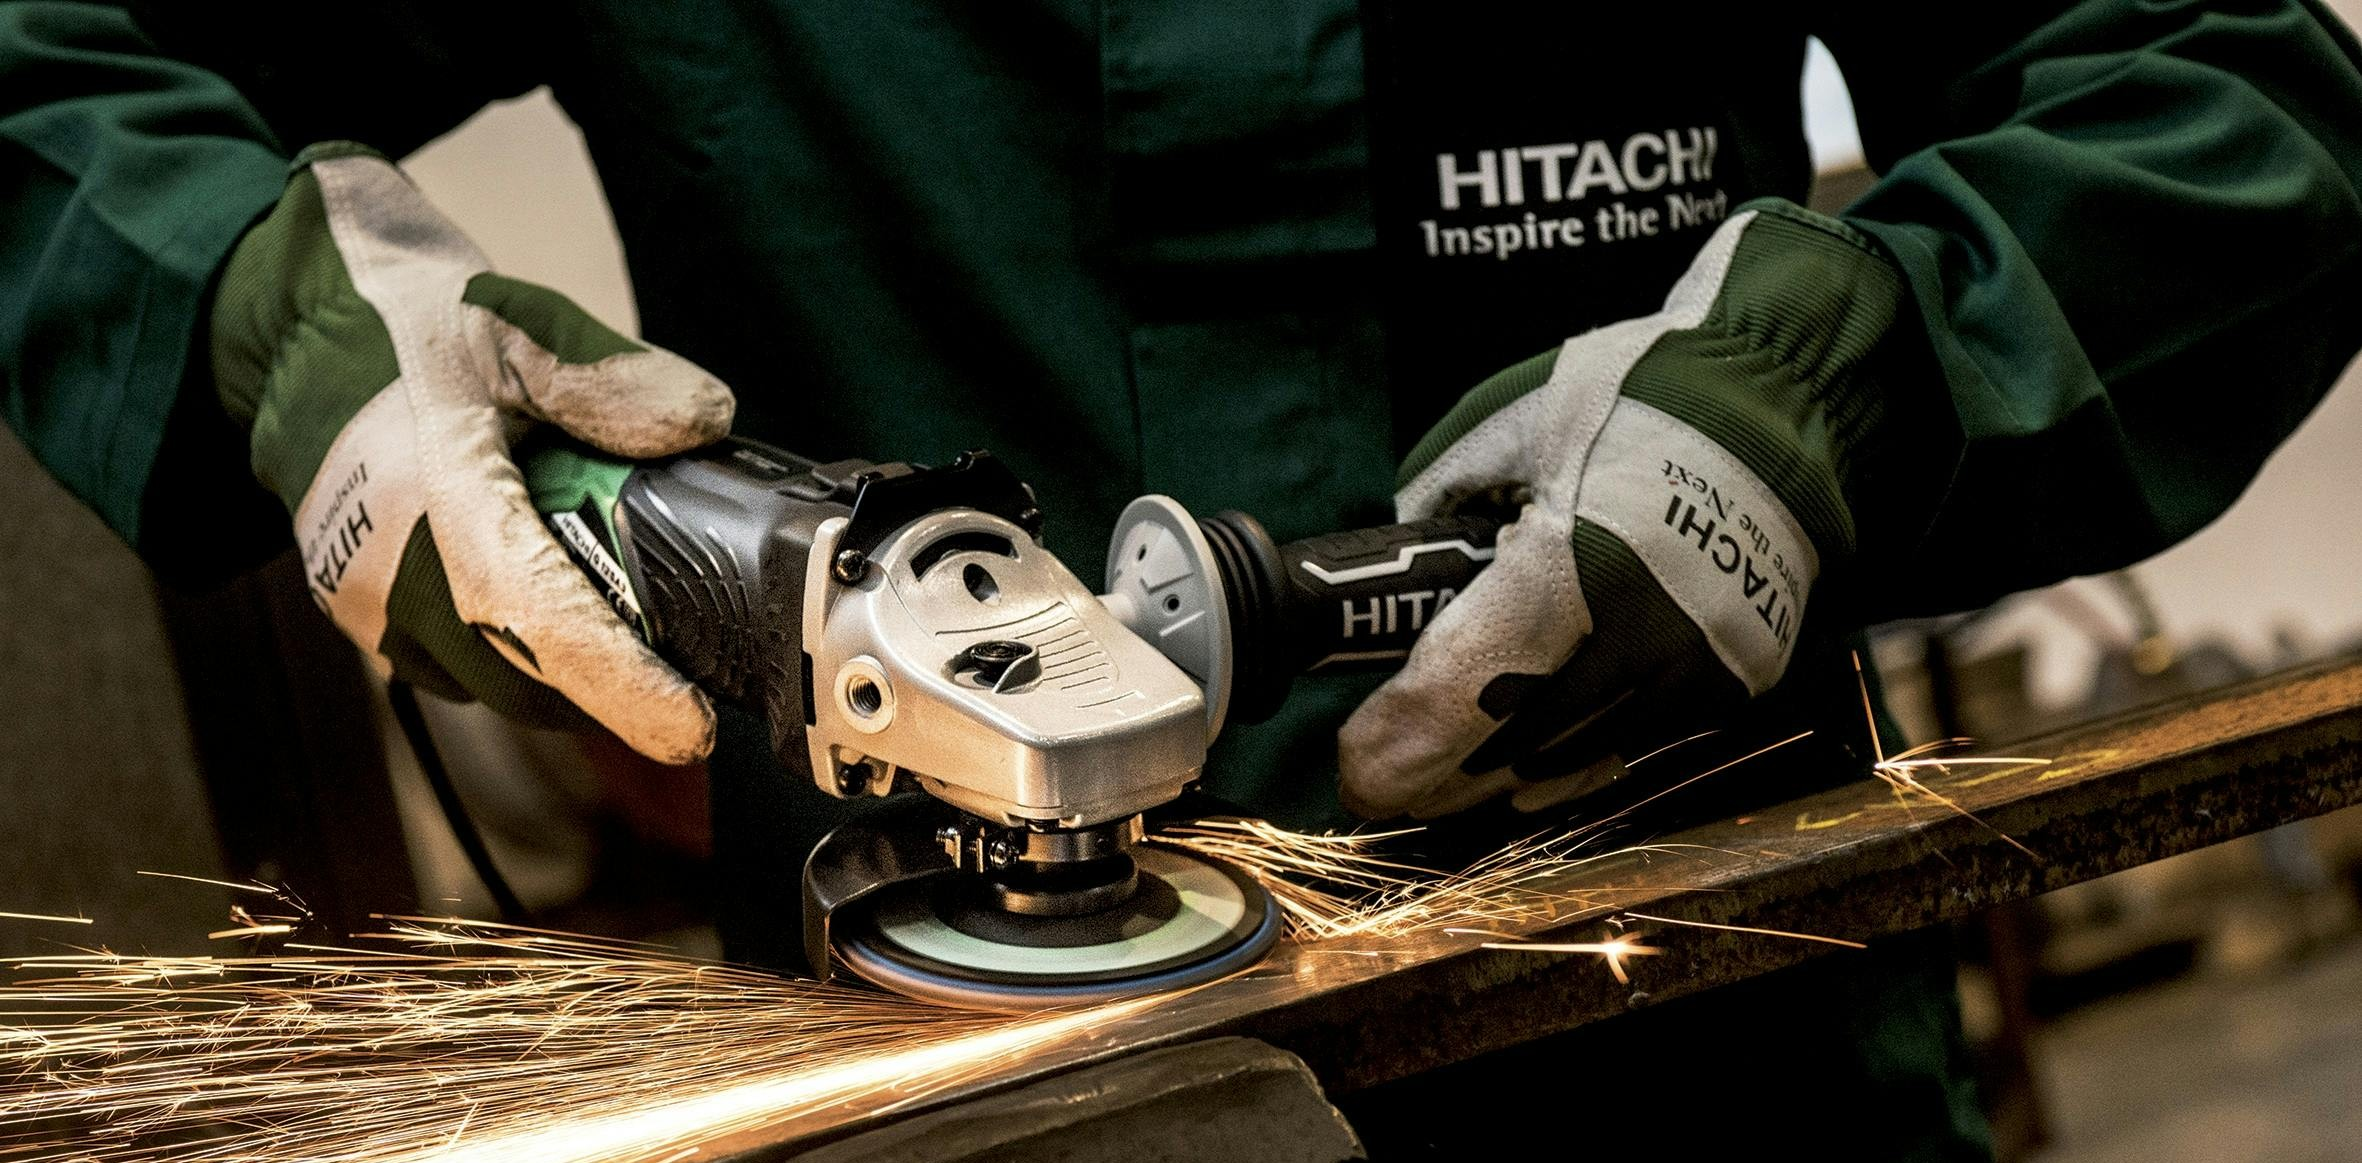
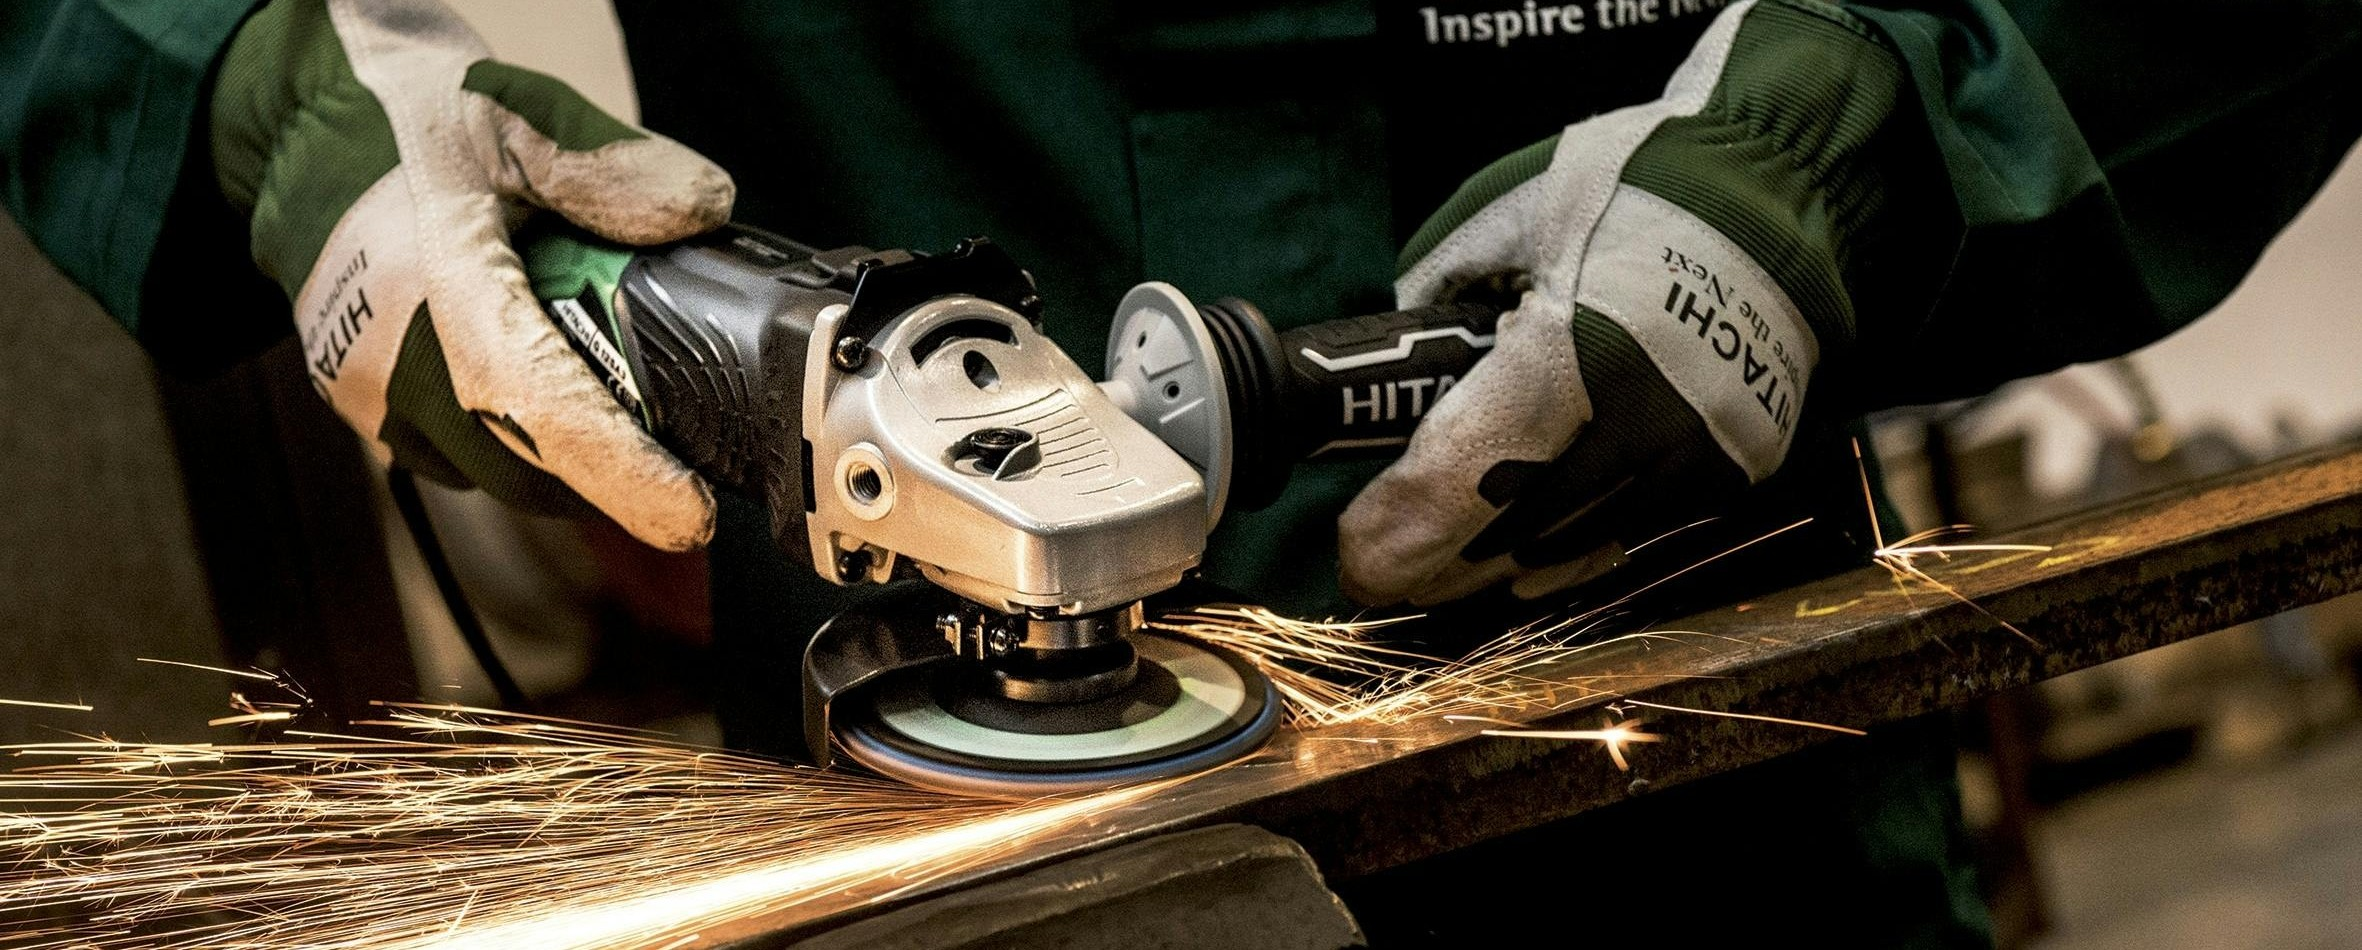
Changed Image

diff --git a/src/pages/Startseite.css b/src/pages/Startseite.css
@@ -31,7 +31,7 @@
 }
 .hero__content {
   position: absolute;
-  top: 20%;              /* 25 % von der Oberkante der Hero-Section */
+  top: 15%;              /* 25 % von der Oberkante der Hero-Section */
   left: 50%;             /* zentriert horizontal */
   transform: translateX(-50%);
   z-index: 2;
